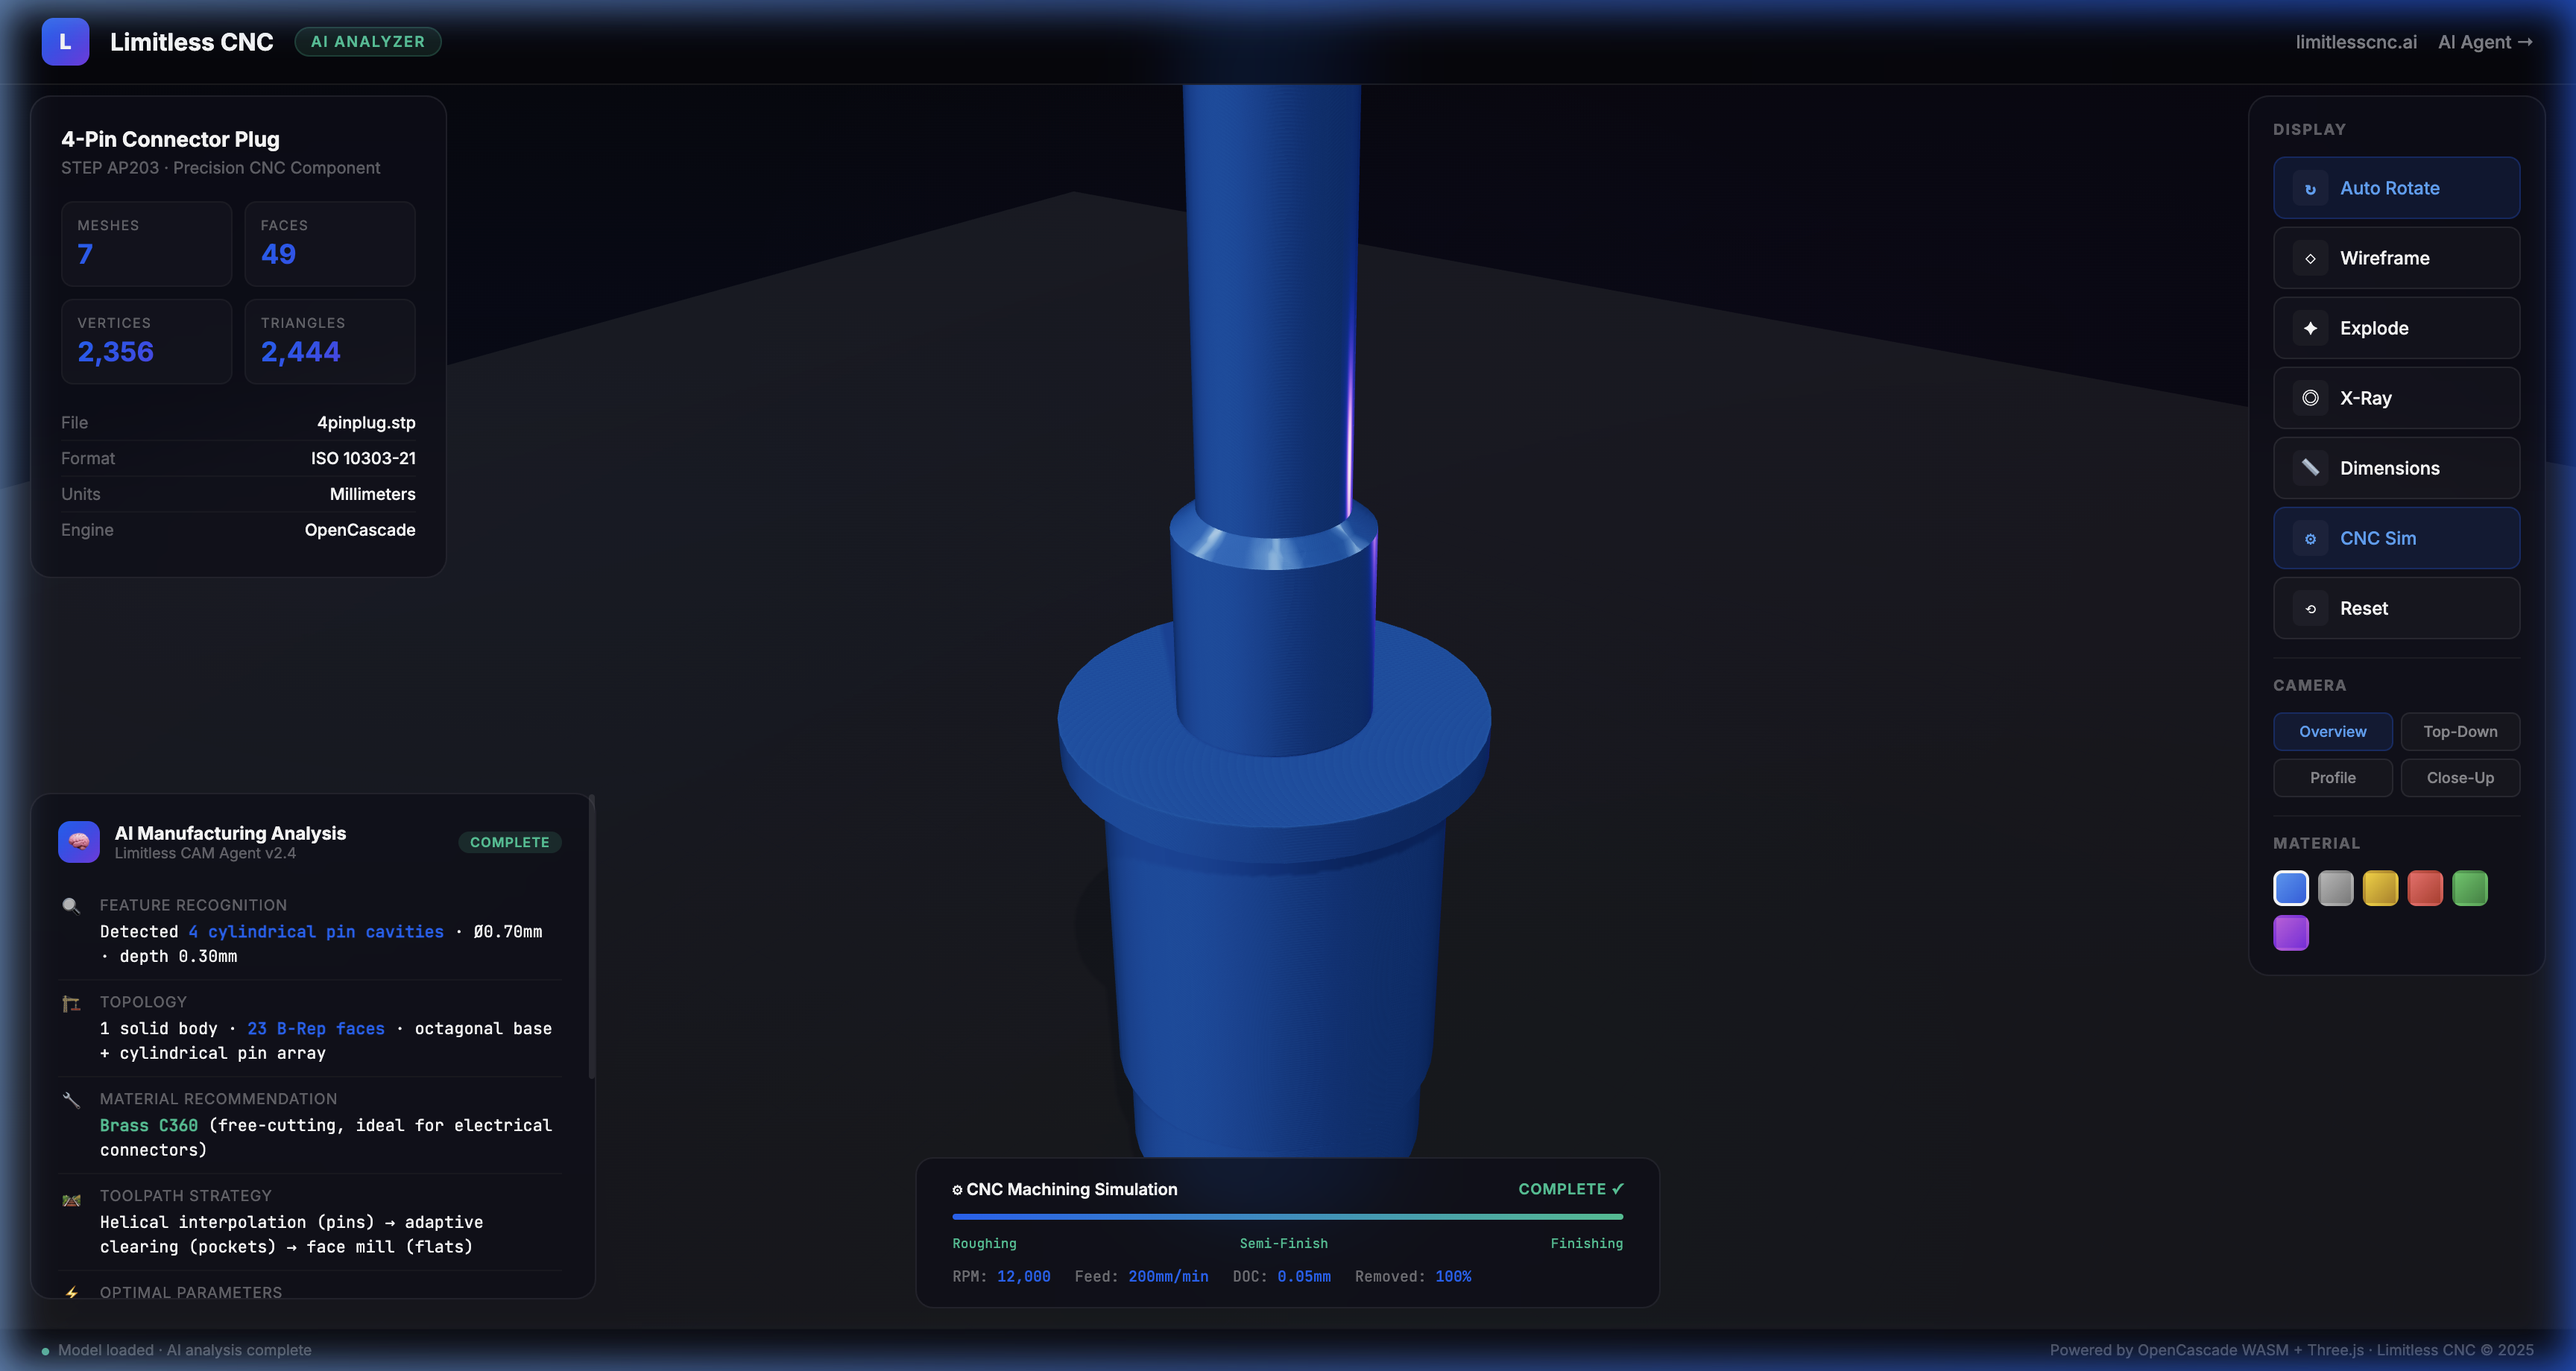
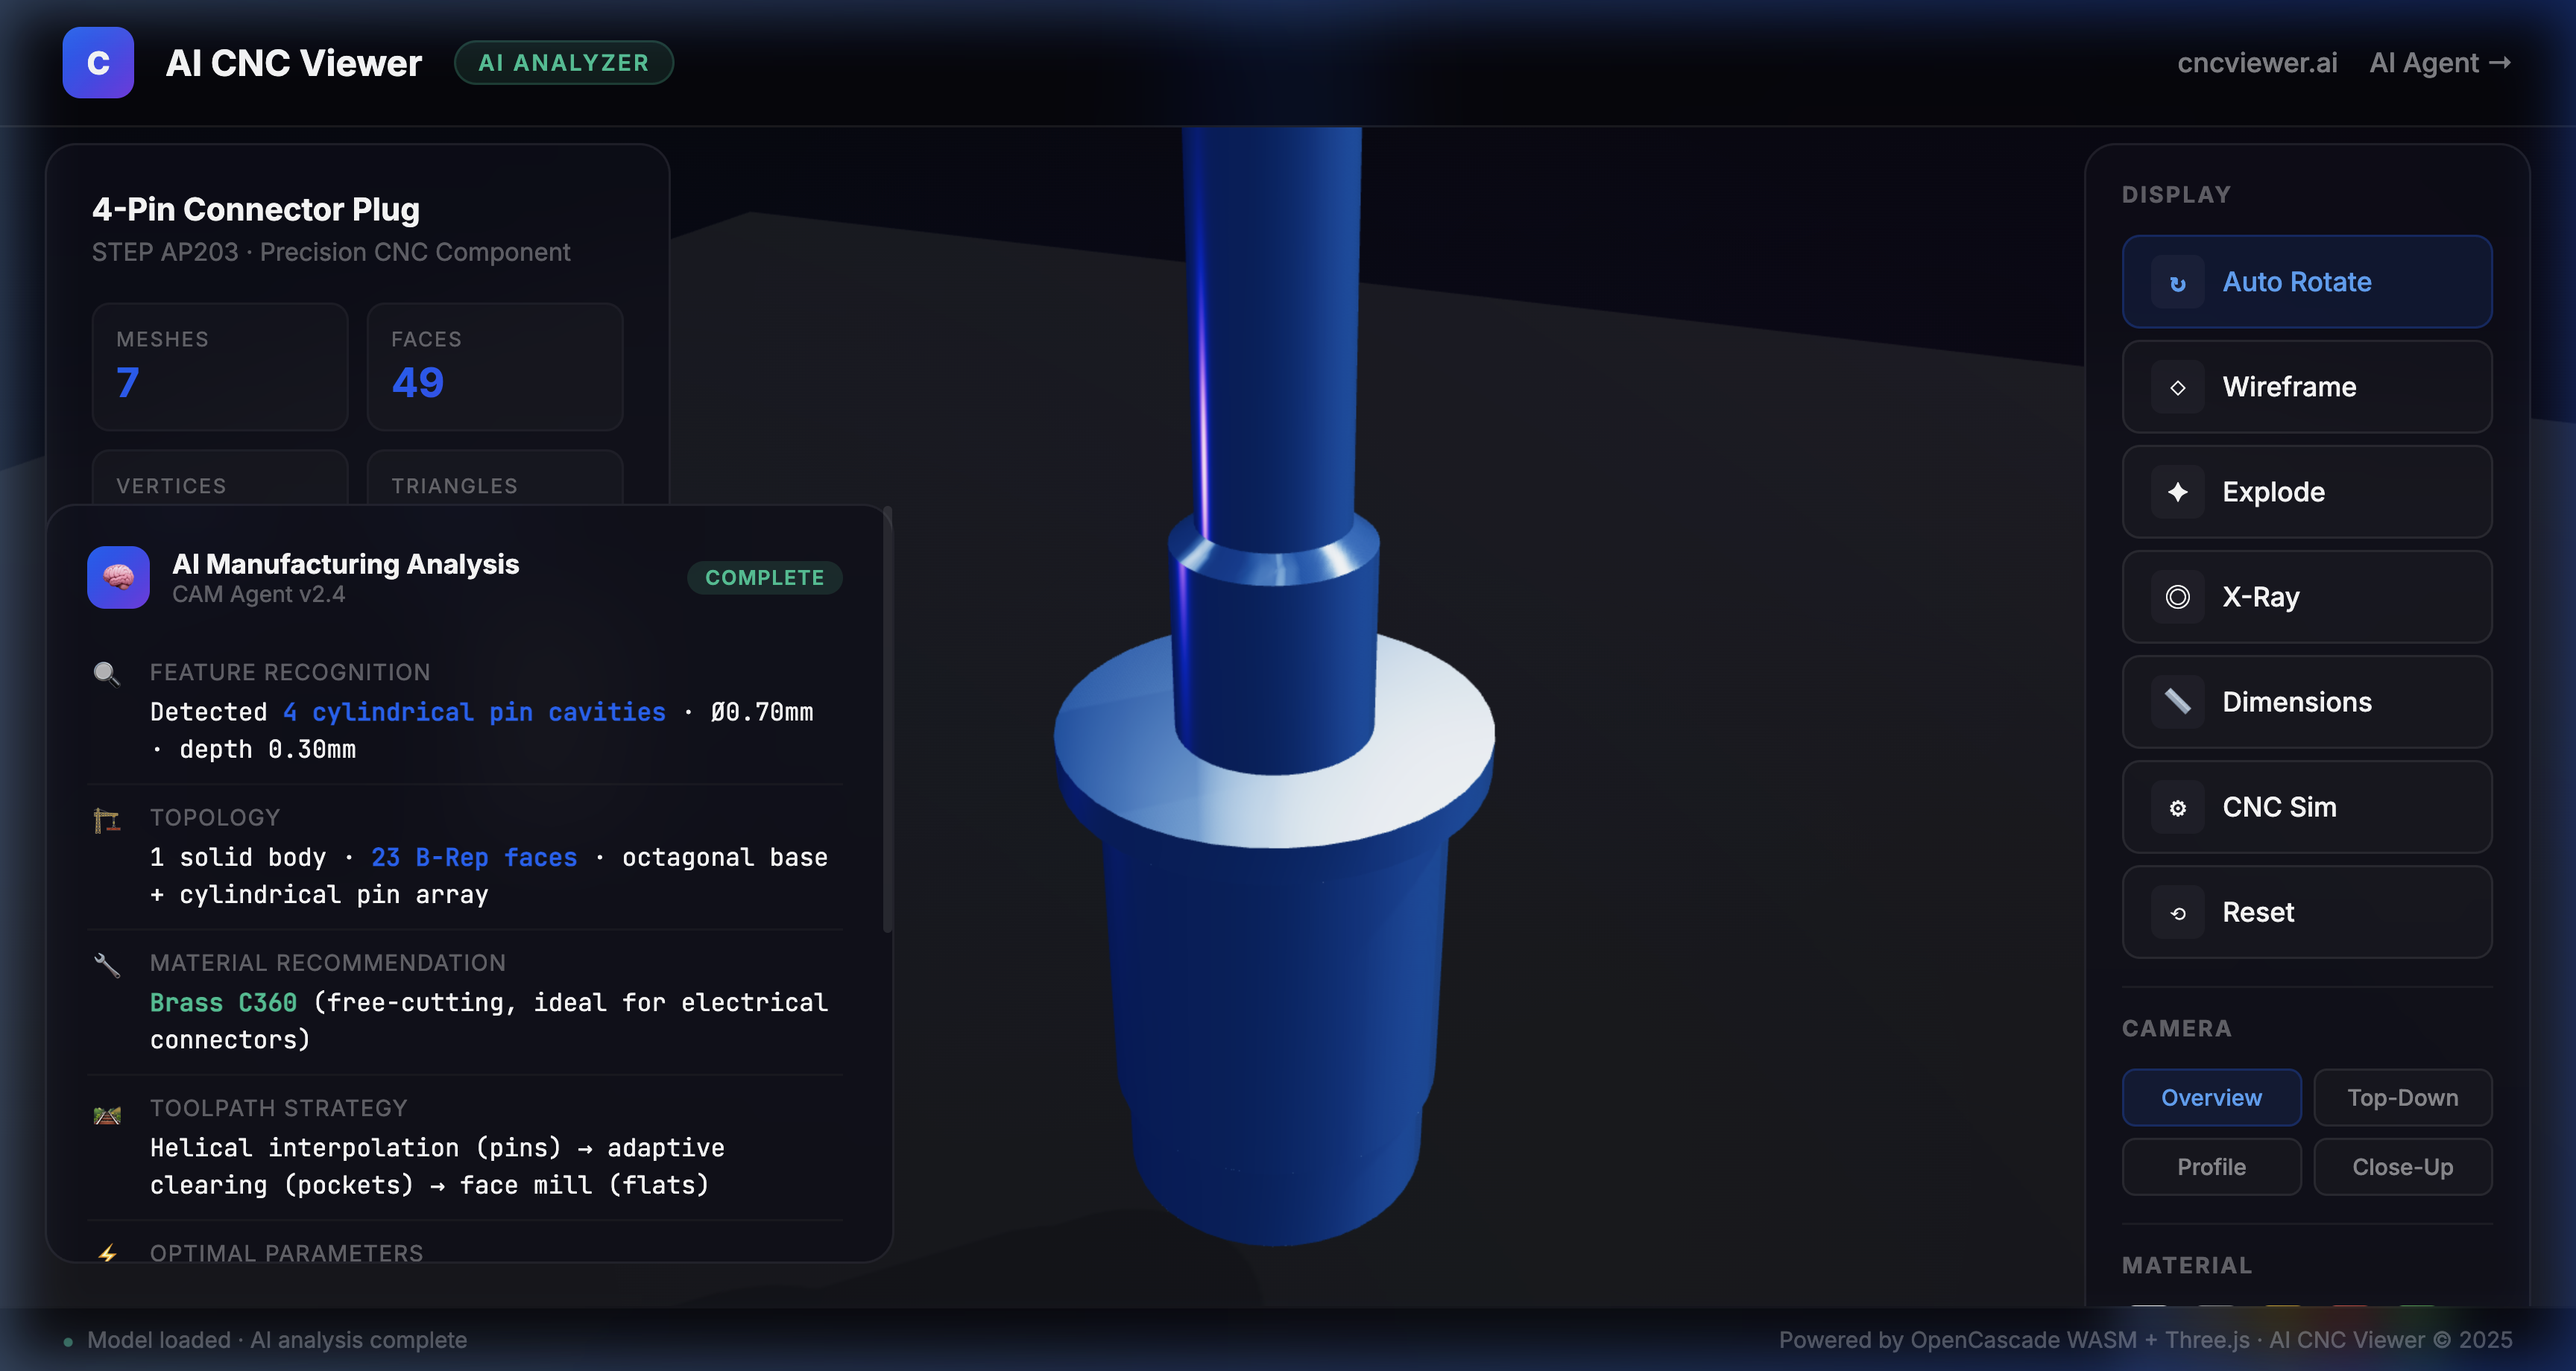
docs: Update README screenshot and remove AI CAM references

diff --git a/README.md b/README.md
@@ -52,4 +52,4 @@ This allows Gemini to look at an STP file not as an image, but as a structured l
 
 ## About
 
-Built as an AI CAM Agent that integrates with NX-CAM to automate CNC programming.
+Built as an interactive, strictly client-side 3D STP viewer for manufacturing visualizations.
